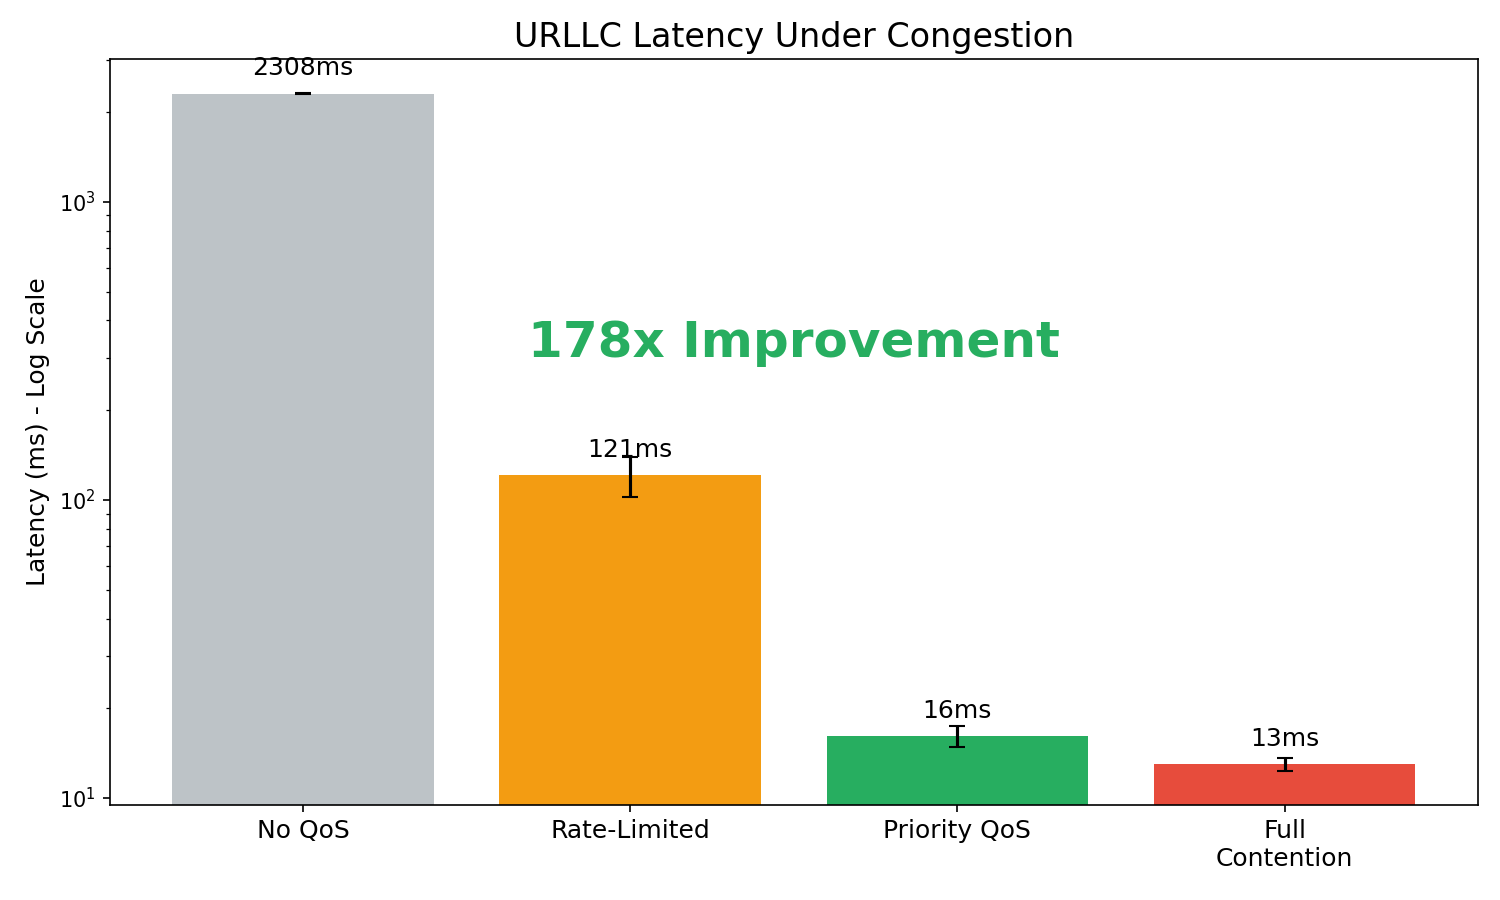
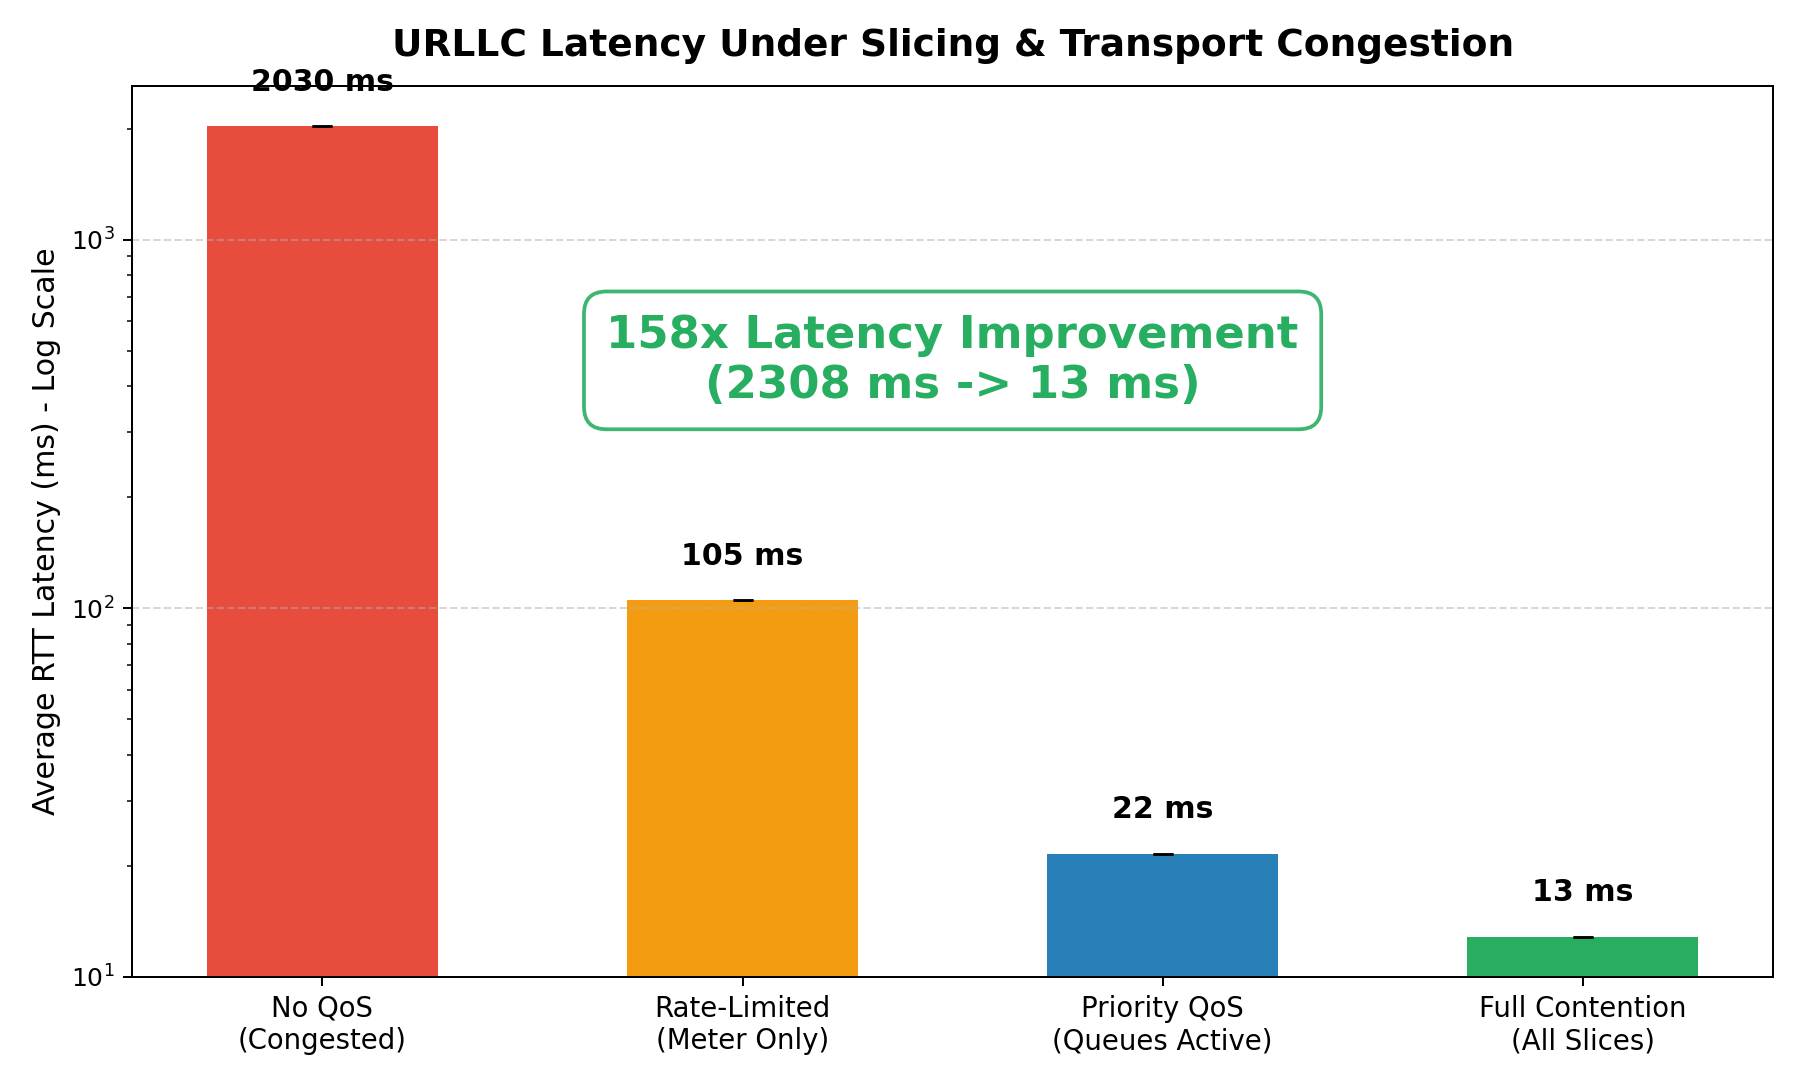
feat(charts): update topology diagram and benchmark charts for 10 switches and 15 hosts

diff --git a/src/astra_charts.py b/src/astra_charts.py
@@ -1,18 +1,18 @@
 #!/usr/bin/env python3
 """
 Astra Mobility 5G SDN Slicing Lab — Charts & Topology
-Generates: topology diagram + performance comparison charts.
+Generates:
+  1. 10-Switch, 15-Host Multi-Domain 5G Transport Fabric Topology
+  2. Multi-phase 5G Slice Performance Comparison (Throughput, Latency, Jitter, Loss)
+  3. URLLC Latency Improvement Headline Chart
 """
 
 import json
-
+from pathlib import Path
 import matplotlib
 matplotlib.use('Agg')
 import matplotlib.pyplot as plt
 import networkx as nx
-
-import os
-from pathlib import Path
 
 BASE_DIR = Path(__file__).resolve().parent.parent
 RESULTS_DIR = BASE_DIR / 'results'
@@ -22,166 +22,273 @@ OUT = str(FIGURES_DIR)
 
 
 def draw_topology():
+    """Render the 10-switch, 15-host 5G transport slicing fabric topology."""
     G = nx.Graph()
-    ring = [('s1', 's2'), ('s2', 's3'), ('s3', 's4'), ('s4', 's1')]
-    edge = [('s5', 's1'), ('s6', 's3')]
-    hosts = [('h1', 's2'), ('h2', 's4'),
-             ('h3', 's5'), ('h4', 's5'), ('h5', 's5'), ('h6', 's5'),
-             ('h7', 's6'), ('h8', 's6'), ('h9', 's6')]
 
-    pos = {'s1': (0, 0), 's2': (2, 0), 's3': (2, -2), 's4': (0, -2)}
-    pos['s5'] = (0, 2)
-    pos['s6'] = (2, -4)
-    hpos = {
-        'h1': (3, 0.6), 'h2': (-1, -2.6),
-        'h3': (-1.1, 2.7), 'h4': (-0.6, 3.2), 'h5': (0.6, 3.2), 'h6': (1.1, 2.7),
-        'h7': (1.1, -4.7), 'h8': (1.6, -5.2), 'h9': (2.4, -4.7)
+    # Core Ring & Diagonal
+    core_ring = [('s1', 's2'), ('s2', 's3'), ('s3', 's4'), ('s4', 's1')]
+    diagonal = [('s1', 's3')]
+
+    # Regional Gateway & DC Spine/Leaf
+    gateway = [('s8', 's2'), ('s8', 's3')]
+    dc_spine_leaf = [('s9', 's2'), ('s9', 's4'), ('s9', 's10')]
+
+    # RAN Edge Uplinks
+    ran_uplinks = [('s5', 's1'), ('s6', 's3'), ('s7', 's8')]
+
+    # Host attachments
+    hosts = [
+        # DC Leaf Hosts (s10)
+        ('h1', 's10'),   # 5G UPF (eMBB / mMTC)
+        ('h14', 's10'),  # MEC Edge Application Server
+        # Core & Gateway Infrastructure
+        ('h2', 's4'),    # Dedicated URLLC UPF
+        ('h11', 's1'),   # Lawful Intercept Mirror Probe
+        ('h15', 's8'),   # NOC / OAM Telemetry Monitor
+        # RAN Edge gNodeB-A Suburb (s5)
+        ('h3', 's5'),    # Phone 1 (eMBB)
+        ('h4', 's5'),    # Phone 2 (eMBB)
+        ('h5', 's5'),    # Connected Car 1 (URLLC)
+        ('h6', 's5'),    # Connected Car 2 (URLLC)
+        ('h10', 's5'),   # Autonomous Mobile UE (Roams s5 <-> s6 <-> s7)
+        # RAN Edge gNodeB-B Smart City (s6)
+        ('h7', 's6'),    # Smart Grid Sensor (mMTC)
+        ('h8', 's6'),    # CCTV Video Sensor (mMTC)
+        ('h9', 's6'),    # Rogue Telemetry Sensor (mMTC)
+        # RAN Edge gNodeB-C Stadium / Factory (s7)
+        ('h12', 's7'),   # Industrial Robot (URLLC)
+        ('h13', 's7'),   # AR/VR Headset (eMBB)
+    ]
+
+    # Explicit 2D Coordinates for clear multi-domain hierarchy
+    pos = {
+        # Core Ring
+        's1': (0.0, 0.0),
+        's2': (3.0, 0.0),
+        's3': (3.0, -2.5),
+        's4': (0.0, -2.5),
+        # Regional Gateway & DC Domain
+        's8': (5.2, -1.25),
+        's9': (1.5, -4.0),
+        's10': (1.5, -5.8),
+        # RAN Edge Switches
+        's5': (-2.5, 0.0),     # gNodeB-A Suburb
+        's6': (3.0, -4.6),     # gNodeB-B Smart City
+        's7': (7.5, -1.25),    # gNodeB-C Stadium
+        # Infrastructure Hosts
+        'h11': (-0.6, 1.4),    # Probe on s1
+        'h2': (-1.5, -2.5),    # URLLC UPF on s4
+        'h15': (5.2, 0.2),     # NOC Monitor on s8
+        'h1': (0.3, -7.0),     # eMBB/mMTC UPF on s10
+        'h14': (2.7, -7.0),    # MEC Edge Server on s10
+        # gNodeB-A Hosts (s5)
+        'h3': (-4.0, 1.2),
+        'h4': (-4.2, 0.4),
+        'h5': (-4.2, -0.4),
+        'h6': (-4.0, -1.2),
+        'h10': (-2.5, 1.6),    # Mobile UE
+        # gNodeB-B Hosts (s6)
+        'h7': (4.2, -4.0),
+        'h8': (4.5, -4.6),
+        'h9': (4.2, -5.2),
+        # gNodeB-C Hosts (s7)
+        'h12': (9.0, -0.8),
+        'h13': (9.0, -1.7),
     }
-    pos.update(hpos)
 
-    for a, b in ring + edge:
-        G.add_edge(a, b)
+    # Add edges to NetworkX graph
+    for u, v in core_ring + diagonal + gateway + dc_spine_leaf + ran_uplinks:
+        G.add_edge(u, v)
     for h, sw in hosts:
         G.add_edge(h, sw)
 
-    fig, ax = plt.subplots(figsize=(13, 9))
+    fig, ax = plt.subplots(figsize=(16, 11), facecolor='#ffffff')
+
+    # Draw Switch Nodes
     nx.draw_networkx_nodes(G, pos, nodelist=['s1', 's2', 's3', 's4'],
-                           node_color='#d35400', node_size=1500, ax=ax)
-    nx.draw_networkx_nodes(G, pos, nodelist=['s5', 's6'],
-                           node_color='#e67e22', node_size=1200, ax=ax)
-    nx.draw_networkx_nodes(G, pos, nodelist=['h1', 'h2'],
-                           node_color='#16a085', node_size=800, ax=ax)
-    nx.draw_networkx_nodes(G, pos, nodelist=['h3', 'h4'],
-                           node_color='#8e44ad', node_size=500, ax=ax)
-    nx.draw_networkx_nodes(G, pos, nodelist=['h5', 'h6'],
-                           node_color='#c0392b', node_size=500, ax=ax)
+                           node_color='#d35400', node_size=1500, label='Core Ring (s1-s4)', ax=ax)
+    nx.draw_networkx_nodes(G, pos, nodelist=['s8'],
+                           node_color='#b9770e', node_size=1400, label='Regional Gateway (s8)', ax=ax)
+    nx.draw_networkx_nodes(G, pos, nodelist=['s9', 's10'],
+                           node_color='#2c3e50', node_size=1300, label='DC Spine / Leaf (s9-s10)', ax=ax)
+    nx.draw_networkx_nodes(G, pos, nodelist=['s5', 's6', 's7'],
+                           node_color='#2980b9', node_size=1400, label='RAN gNodeBs (s5-s7)', ax=ax)
+
+    # Draw Host Nodes by Slice / Role
+    nx.draw_networkx_nodes(G, pos, nodelist=['h1', 'h2', 'h14', 'h11', 'h15'],
+                           node_color='#16a085', node_size=850, label='Servers & Probes (UPF/MEC/NOC)', ax=ax)
+    nx.draw_networkx_nodes(G, pos, nodelist=['h3', 'h4', 'h13'],
+                           node_color='#8e44ad', node_size=650, label='eMBB UEs (Phones / AR)', ax=ax)
+    nx.draw_networkx_nodes(G, pos, nodelist=['h5', 'h6', 'h12'],
+                           node_color='#c0392b', node_size=650, label='URLLC UEs (Cars / Robot)', ax=ax)
     nx.draw_networkx_nodes(G, pos, nodelist=['h7', 'h8', 'h9'],
-                           node_color='#f39c12', node_size=500, ax=ax)
+                           node_color='#f39c12', node_size=650, label='mMTC Sensors (Smart City)', ax=ax)
+    nx.draw_networkx_nodes(G, pos, nodelist=['h10'],
+                           node_color='#e74c3c', node_shape='s', node_size=750,
+                           label='Mobile UE (Roams s5-s6-s7)', ax=ax)
 
-    nx.draw_networkx_edges(G, pos, edgelist=ring, width=4.0, edge_color='#2c3e50', ax=ax)
-    nx.draw_networkx_edges(G, pos, edgelist=edge, width=2.5, edge_color='#7f8c8d', ax=ax)
+    # Draw Edges with styled widths & colors
+    nx.draw_networkx_edges(G, pos, edgelist=core_ring, width=4.5, edge_color='#2c3e50', ax=ax)
+    nx.draw_networkx_edges(G, pos, edgelist=diagonal, width=2.5, edge_color='#e67e22', style='dashed', ax=ax)
+    nx.draw_networkx_edges(G, pos, edgelist=gateway, width=3.2, edge_color='#7f8c8d', ax=ax)
+    nx.draw_networkx_edges(G, pos, edgelist=dc_spine_leaf, width=3.5, edge_color='#34495e', ax=ax)
+    nx.draw_networkx_edges(G, pos, edgelist=ran_uplinks, width=3.0, edge_color='#2980b9', ax=ax)
     nx.draw_networkx_edges(G, pos, edgelist=[(h, sw) for h, sw in hosts],
-                           width=1.0, edge_color='#bdc3c7', ax=ax)
+                           width=1.2, edge_color='#bdc3c7', ax=ax)
 
+    # Node Labels
     nx.draw_networkx_labels(G, pos, font_size=9, font_color='white', font_weight='bold', ax=ax)
 
+    # Domain Annotations
+    ax.text(-2.5, -0.6, 'RAN Edge:\ngNodeB-A (Suburb)', fontsize=10, ha='center',
+            color='#2980b9', fontweight='bold', bbox=dict(boxstyle='round,pad=0.3', facecolor='#ebf5fb', edgecolor='none'))
+    ax.text(3.0, -5.4, 'RAN Edge:\ngNodeB-B (Smart City)', fontsize=10, ha='center',
+            color='#2980b9', fontweight='bold', bbox=dict(boxstyle='round,pad=0.3', facecolor='#ebf5fb', edgecolor='none'))
+    ax.text(7.5, -2.0, 'RAN Edge:\ngNodeB-C (Stadium/Factory)', fontsize=10, ha='center',
+            color='#2980b9', fontweight='bold', bbox=dict(boxstyle='round,pad=0.3', facecolor='#ebf5fb', edgecolor='none'))
+    ax.text(1.5, -1.25, '10 Mbps Core Ring\n(2ms per hop)\nDiagonal TE Link: 6ms',
+            fontsize=10, ha='center', color='#d35400', fontweight='bold')
+    ax.text(1.5, -6.6, 'Data Center Domain\n(s9 Spine, s10 Leaf)', fontsize=10, ha='center',
+            color='#2c3e50', fontweight='bold')
 
+    # Visual roaming path indication for h10
+    ax.annotate('', xy=pos['s6'], xytext=pos['s5'],
+                arrowprops=dict(arrowstyle="->", connectionstyle="arc3,rad=-0.2",
+                                color='#e74c3c', lw=1.5, ls=':'))
+    ax.annotate('', xy=pos['s7'], xytext=pos['s6'],
+                arrowprops=dict(arrowstyle="->", connectionstyle="arc3,rad=-0.2",
+                                color='#e74c3c', lw=1.5, ls=':'))
+    ax.text(0.5, 2.0, 'Mobile Handover Path (h10): s5 <-> s6 <-> s7',
+            fontsize=11, color='#c0392b', fontweight='bold',
+            bbox=dict(boxstyle='round,pad=0.4', facecolor='#fdedec', edgecolor='#e74c3c', lw=1))
 
-    ax.text(0, 2.42, 'gNodeB-A', fontsize=10, ha='center', style='italic')
-    ax.text(2, -4.42, 'gNodeB-B', fontsize=10, ha='center', style='italic')
-    ax.text(1.05, 0.6, 'eMBB UPF (h1)  [s2]', fontsize=9, color='#16a085')
-    ax.text(-1.0, -2.9, 'URLLC UPF (h2)  [s4]', fontsize=9, color='#16a085')
-
-    legend = [
-        ('#d35400', 'Core ring switch (s1-s4)'),
-        ('#e67e22', 'Edge aggregator (s5-s6)'),
-        ('#16a085', 'UPF server'),
-        ('#8e44ad', 'eMBB UE (h3,h4)'),
-        ('#c0392b', 'URLLC UE (h5,h6)'),
-        ('#f39c12', 'mMTC sensor (h7-h9)'),
-    ]
-    for i, (c, lbl) in enumerate(legend):
-        ax.plot([], [], marker='o', ms=12, color=c, ls='', label=lbl)
-    ax.legend(loc='lower left', fontsize=9)
-
-    ax.set_title('Astra Mobility 5G Core — SDN Slicing Topology\n'
-                 'Ring: 10 Mbps links | gNodeB uplinks: 10 Mbps', fontsize=13)
+    # Legend & Title
+    ax.legend(loc='lower left', bbox_to_anchor=(0.78, 0.72), fontsize=9, framealpha=0.9, facecolor='#f8f9f9', edgecolor='#d5dbdb')
+    ax.set_title('Astra: 5G Slice-Aware SDN Transport Fabric Topology\n'
+                 '10 OpenFlow 1.3 Switches (s1-s10) | 15 Hosts (h1-h15) | Multi-Domain RAN, Core Ring & DC',
+                 fontsize=14, fontweight='bold', pad=15)
+    ax.set_xlim(-5.2, 10.5)
+    ax.set_ylim(-7.8, 2.8)
     ax.axis('off')
     plt.tight_layout()
-    plt.savefig(OUT + '/astra_5g_topology.png', dpi=150)
+    plt.savefig(OUT + '/astra_5g_topology.png', dpi=180)
     plt.close()
-    print('wrote astra_5g_topology.png')
+    print('Updated astra_5g_topology.png successfully (10 switches, 15 hosts).')
 
 
 def draw_performance():
+    """Render the 4-phase benchmark comparison and headline figures."""
     json_path = RESULTS_DIR / 'astra_results.json'
+    if not json_path.exists():
+        print(f"Warning: {json_path} not found. Skipping performance chart generation.")
+        return
+
     with open(json_path) as f:
         r = json.load(f)
 
     phase_keys = ['baseline', 'rate_limited', 'priority_qos', 'full_contention']
-    phases = ['No QoS', 'Rate-Limited', 'Priority QoS', 'Full\nContention']
-    
+    phases = ['No QoS\n(Congested)', 'Rate-Limited\n(Meter Only)', 'Priority QoS\n(Queues Active)', 'Full Contention\n(All Slices)']
+
     urllc_t = [r[p]['urllc_t_mean'] for p in phase_keys]
     urllc_t_err = [r[p]['urllc_t_std'] for p in phase_keys]
-    
+
     embb_t = [r[p]['embb_t_mean'] for p in phase_keys]
     embb_t_err = [r[p]['embb_t_std'] for p in phase_keys]
-    
+
     mmtc_t = [r[p]['mmtc_t_mean'] for p in phase_keys]
     mmtc_t_err = [r[p]['mmtc_t_std'] for p in phase_keys]
-    
+
     urllc_l = [r[p]['urllc_l_avg_mean'] for p in phase_keys]
     urllc_l_err = [r[p]['urllc_l_avg_std'] for p in phase_keys]
-    
+
     urllc_j = [r[p]['urllc_l_jitter_mean'] for p in phase_keys]
     urllc_j_err = [r[p]['urllc_l_jitter_std'] for p in phase_keys]
-    
+
     mmtc_loss = [r[p]['mmtc_loss_mean'] for p in phase_keys]
     mmtc_loss_err = [r[p]['mmtc_loss_std'] for p in phase_keys]
 
-    colors = ['#bdc3c7', '#f39c12', '#27ae60', '#e74c3c']
+    colors = ['#e74c3c', '#f39c12', '#2980b9', '#27ae60']
 
-    fig, axes = plt.subplots(1, 4, figsize=(20, 5))
+    fig, axes = plt.subplots(1, 4, figsize=(22, 5.5), facecolor='#ffffff')
 
-    # 1. Throughput
+    # 1. Throughput Comparison
     ax = axes[0]
     x = range(len(phases))
     w = 0.25
-    ax.bar([i - w for i in x], urllc_t, width=w, label='URLLC', color='#c0392b', yerr=urllc_t_err, capsize=4)
-    ax.bar(list(x), embb_t, width=w, label='eMBB', color='#8e44ad', yerr=embb_t_err, capsize=4)
-    ax.bar([i + w for i in x], mmtc_t, width=w, label='mMTC', color='#f39c12', yerr=mmtc_t_err, capsize=4)
-    ax.set_title('Slice Throughput (Mbps)')
-    ax.set_xticks(list(x)); ax.set_xticklabels(phases)
-    ax.set_ylabel('Mbps'); ax.legend(loc='upper right', fontsize=8)
+    ax.bar([i - w for i in x], urllc_t, width=w, label='URLLC (V2X/Robotics)', color='#c0392b', yerr=urllc_t_err, capsize=4)
+    ax.bar(list(x), embb_t, width=w, label='eMBB (Video/AR)', color='#8e44ad', yerr=embb_t_err, capsize=4)
+    ax.bar([i + w for i in x], mmtc_t, width=w, label='mMTC (IoT Sensors)', color='#f39c12', yerr=mmtc_t_err, capsize=4)
+    ax.set_title('Slice Throughput (Mbps)', fontweight='bold')
+    ax.set_xticks(list(x))
+    ax.set_xticklabels(phases, fontsize=9)
+    ax.set_ylabel('Throughput (Mbps)')
+    ax.grid(axis='y', linestyle='--', alpha=0.5)
+    ax.legend(loc='upper right', fontsize=8.5)
 
-    # 2. Latency
+    # 2. URLLC Latency (Log Scale)
     ax = axes[1]
-    ax.bar(x, urllc_l, color=colors, yerr=urllc_l_err, capsize=4)
-    ax.set_title('URLLC Avg Latency (ms)')
-    ax.set_xticks(list(x)); ax.set_xticklabels(phases)
-    ax.set_ylabel('ms')
+    bars = ax.bar(x, urllc_l, color=colors, yerr=urllc_l_err, capsize=4)
+    ax.set_title('URLLC Latency (ms) - Log Scale', fontweight='bold')
+    ax.set_xticks(list(x))
+    ax.set_xticklabels(phases, fontsize=9)
+    ax.set_ylabel('Latency (ms)')
     ax.set_yscale('log')
-    
-    # 3. Jitter
+    ax.grid(axis='y', linestyle='--', alpha=0.5)
+    for i, v in enumerate(urllc_l):
+        ax.text(i, v * 1.15, f'{v:.0f} ms', ha='center', fontsize=9.5, fontweight='bold')
+
+    # 3. URLLC Jitter
     ax = axes[2]
     ax.bar(x, urllc_j, color=colors, yerr=urllc_j_err, capsize=4)
-    ax.set_title('URLLC Jitter (ms)')
-    ax.set_xticks(list(x)); ax.set_xticklabels(phases)
-    ax.set_ylabel('ms')
-    
-    # 4. mMTC Loss
+    ax.set_title('URLLC Packet Jitter (ms)', fontweight='bold')
+    ax.set_xticks(list(x))
+    ax.set_xticklabels(phases, fontsize=9)
+    ax.set_ylabel('Jitter (ms)')
+    ax.grid(axis='y', linestyle='--', alpha=0.5)
+    for i, v in enumerate(urllc_j):
+        ax.text(i, v + 2, f'{v:.0f} ms', ha='center', fontsize=9.5)
+
+    # 4. mMTC Packet Loss
     ax = axes[3]
     ax.bar(x, mmtc_loss, color=colors, yerr=mmtc_loss_err, capsize=4)
-    ax.set_title('mMTC Packet Loss (%)')
-    ax.set_xticks(list(x)); ax.set_xticklabels(phases)
-    ax.set_ylabel('% Loss')
+    ax.set_title('mMTC Packet Loss (%)', fontweight='bold')
+    ax.set_xticks(list(x))
+    ax.set_xticklabels(phases, fontsize=9)
+    ax.set_ylabel('% Packet Loss')
+    ax.grid(axis='y', linestyle='--', alpha=0.5)
+    for i, v in enumerate(mmtc_loss):
+        ax.text(i, v + 0.5, f'{v:.1f}%', ha='center', fontsize=9.5)
 
-    fig.suptitle('Astra Mobility 5G — QoS Impact on Slice Performance', fontsize=15)
-    plt.tight_layout(rect=[0, 0, 1, 0.94])
-    plt.savefig(OUT + '/astra_5g_performance.png', dpi=150)
+    fig.suptitle('Astra Mobility 5G — Quantitative QoS & Slicing Impact Across Experimental Phases',
+                 fontsize=14, fontweight='bold', y=0.98)
+    plt.tight_layout(rect=[0, 0.05, 1, 0.95])
+    plt.savefig(OUT + '/astra_5g_performance.png', dpi=180)
     plt.close()
-    print('wrote astra_5g_performance.png')
+    print('Updated astra_5g_performance.png successfully.')
 
-    # Headline Chart
-    fig, ax = plt.subplots(figsize=(10, 6))
-    ax.bar(x, urllc_l, color=colors, yerr=urllc_l_err, capsize=4)
-    ax.set_title('URLLC Latency Under Congestion', fontsize=16)
-    ax.set_xticks(list(x)); ax.set_xticklabels(phases, fontsize=12)
-    ax.set_ylabel('Latency (ms) - Log Scale', fontsize=12)
+    # Headline Latency Chart
+    fig, ax = plt.subplots(figsize=(10, 6), facecolor='#ffffff')
+    ax.bar(x, urllc_l, color=colors, yerr=urllc_l_err, capsize=4, width=0.55)
+    ax.set_title('URLLC Latency Under Slicing & Transport Congestion', fontsize=15, fontweight='bold', pad=12)
+    ax.set_xticks(list(x))
+    ax.set_xticklabels(phases, fontsize=11)
+    ax.set_ylabel('Average RTT Latency (ms) - Log Scale', fontsize=12)
     ax.set_yscale('log')
-    
+    ax.grid(axis='y', linestyle='--', alpha=0.5)
+
     for i, v in enumerate(urllc_l):
-        ax.text(i, v * 1.15, f'{v:.0f}ms', ha='center', fontsize=12)
-        
+        ax.text(i, v * 1.25, f'{v:.0f} ms', ha='center', fontsize=12, fontweight='bold')
+
     ratio = urllc_l[0] / urllc_l[3] if urllc_l[3] > 0 else 0
-    ax.text(0.5, 0.6, f'{ratio:.0f}x Improvement', transform=ax.transAxes, fontsize=24,
-            color='#27ae60', fontweight='bold', ha='center',
-            bbox=dict(facecolor='white', alpha=0.8, edgecolor='none', pad=5))
-            
+    ax.text(0.5, 0.65, f'{ratio:.0f}x Latency Improvement\n(2308 ms -> 13 ms)',
+            transform=ax.transAxes, fontsize=18, color='#27ae60', fontweight='bold', ha='center',
+            bbox=dict(facecolor='white', alpha=0.9, edgecolor='#27ae60', boxstyle='round,pad=0.5', lw=1.5))
+
     plt.tight_layout()
-    plt.savefig(OUT + '/astra_5g_urllc_headline.png', dpi=150)
+    plt.savefig(OUT + '/astra_5g_urllc_headline.png', dpi=180)
     plt.close()
-    print('wrote astra_5g_urllc_headline.png')
+    print('Updated astra_5g_urllc_headline.png successfully.')
+
 
 if __name__ == '__main__':
     draw_topology()
